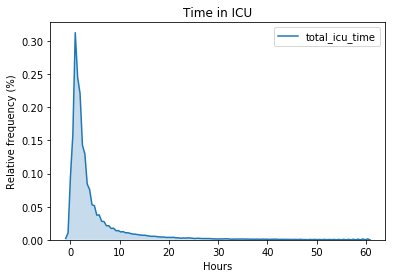
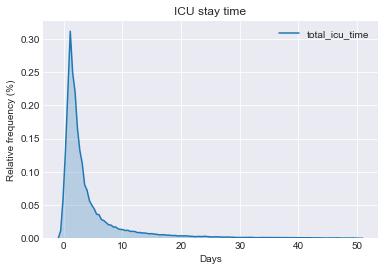
Added more icu_data plots

Changed region(s): [[0.0, 0.0295, 0.9974, 0.9742]]

diff --git a/services/plotting_service.py b/services/plotting_service.py
@@ -3,9 +3,11 @@ import matplotlib.pyplot as plt
 import pandas as pd
 
 class PlottingService():
+    sns.set_style("darkgrid");
     
-    def plot_kde(self, data, title, xlabel, ylabel):
-        ax = sns.kdeplot(data, shade = True);
+    def plot_kde(self, data, title, xlabel, ylabel, xlimit):
+        filtered_data = data[data < xlimit]
+        ax = sns.kdeplot(filtered_data, shade = True);
         ax.set_title(title);
         ax.set_xlabel(xlabel);
         ax.set_ylabel(ylabel);
@@ -18,11 +20,11 @@ class PlottingService():
         
     def plot_countplot(self, data, title, xlabel, ylabel):
         
-        ax = sns.countplot(data);
+        ax = sns.countplot(data, orient);
         ax.set_title(title);
         ax.set_xlabel(xlabel);
         ax.set_ylabel(ylabel);
-        plt.xticks(rotation=50)
+        plt.xticks(rotation=45)
         
     def jointplot(self, x_data, y_data, xlabel, ylabel):
         
@@ -30,6 +32,13 @@ class PlottingService():
         data.columns = [xlabel, ylabel];
 
         ax = sns.jointplot(x = data.columns[0], y = data.columns[1], data=data,  kind="kde");
+        ax.set_title(title);
+        ax.set_xlabel(xlabel);
+        ax.set_ylabel(ylabel);
+    
+    def boxplot(self, data, title, xlabel, ylabel):
+        
+        ax = sns.boxplot(data, shade = True);
         ax.set_title(title);
         ax.set_xlabel(xlabel);
         ax.set_ylabel(ylabel);

diff --git a/main.py b/main.py
@@ -15,12 +15,15 @@ sys.path.insert(0, os.path.dirname(os.path.realpath('__file__')));
 from numpy import pi
 import matplotlib as mplc
 import matplotlib.pyplot as plt
-
+#icu_data = ICUData().get_icu_data();
 #severity_scores = Measures().get_severity_scores();
 #ventilation_time = Measures().get_mechanical_ventilation_time();
 #lab_data = Measures().get_lab_data();
 #physio_data = Measures().get_physio_data();
-#icu_data = ICUData().get_icu_data();
+icu_data = ICUData().get_icu_data();
 #labels = PatientOutcomes().get_patient_outcomes();
 
         
+icd9_groups = icu_data.icd9_group.value_counts(
+        )
+
